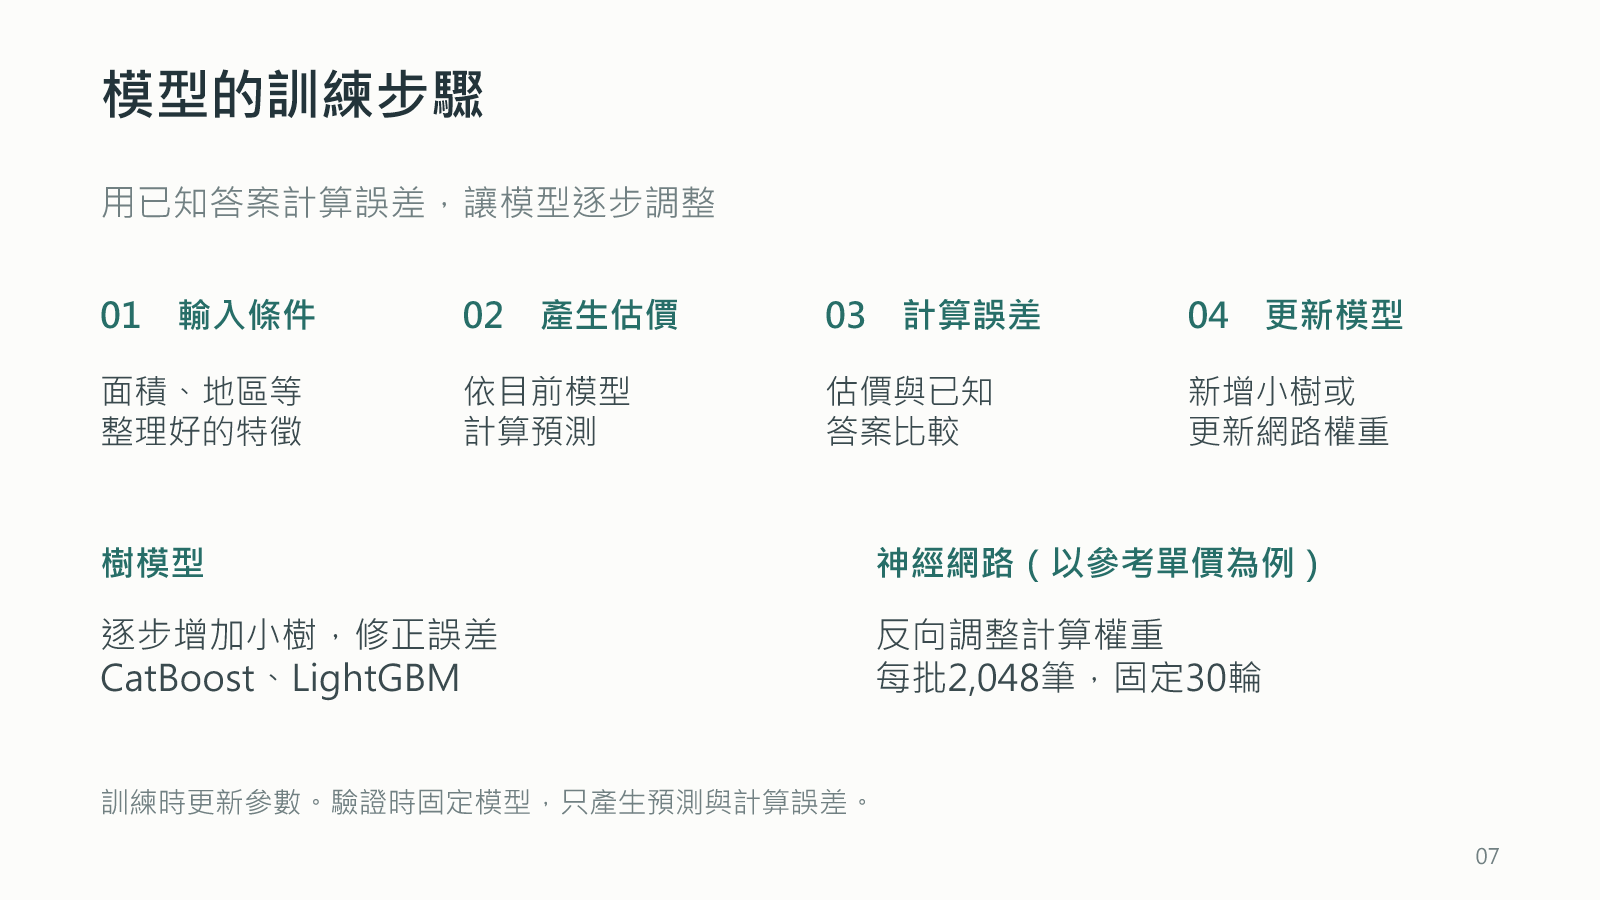
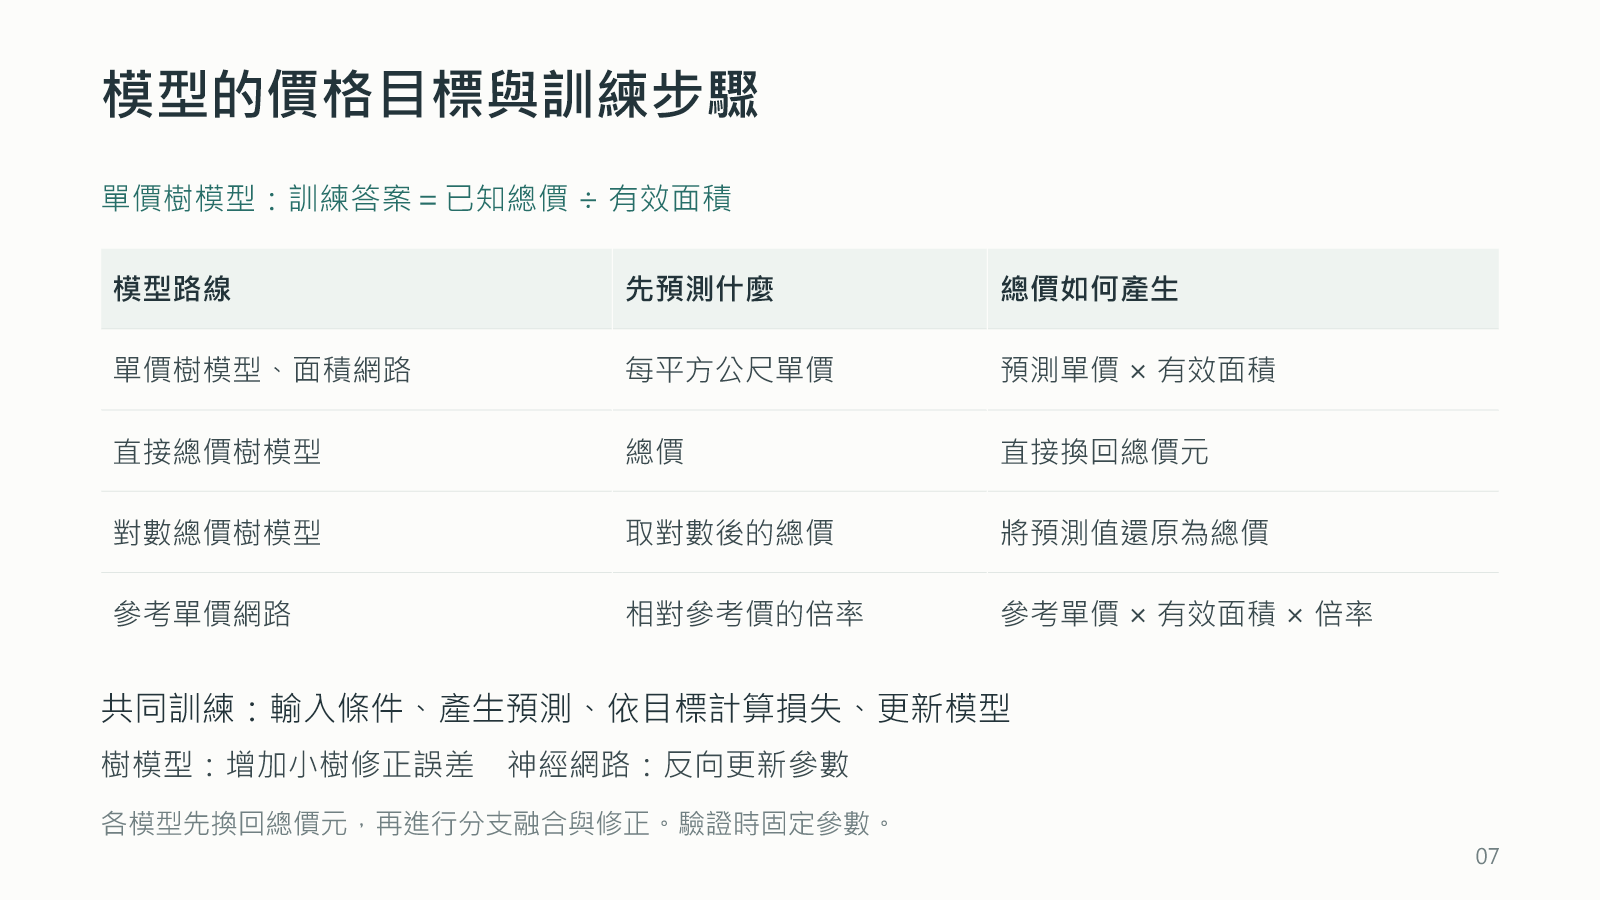
Clarify model price targets and total-price conversion on slide 7

diff --git a/teaching/final_presentation/完整口語講稿.md b/teaching/final_presentation/完整口語講稿.md
@@ -2,32 +2,9 @@
 
 姓名：廖子頤　學號：315581048
 
-共16頁，全部為主講，無附錄。主講 4,075 純漢字，按275字／分估約 14:49。250–300字／分估 13:35 至 16:18。這是文字配速估算，尚未本人計時；不依賴問答補時。
-
-講法以實際製作步驟與設計理由為主。每頁「主講」可口述，補充理由及來源供理解查閱，不重複朗讀。
-
-| 頁 | 主題 | 估計時間（275字／分） |
-| --- | --- | --- |
-| 01 | 台灣房屋銷售價格預測挑戰賽 | 0:35 |
-| 02 | 房屋條件與價格答案 | 0:42 |
-| 03 | 估價誤差與 MAE | 0:44 |
-| 04 | 原始文字的處理步驟 | 1:10 |
-| 05 | 模型輸入欄位的選擇 | 1:14 |
-| 06 | 用較早交易預測下一年 | 0:54 |
-| 07 | 模型的訓練步驟 | 1:05 |
-| 08 | 面積與總價誤差 | 0:52 |
-| 09 | 日期權重的影響 | 0:46 |
-| 10 | 參考單價與分組先驗 | 1:02 |
-| 11 | 用後一年交易檢查訓練過程 | 1:19 |
-| 12 | 六模型組成三條分支 | 0:48 |
-| 13 | 成交參考與空間修正 | 0:48 |
-| 14 | 逐筆取三路中位數 | 0:50 |
-| 15 | 跨年度檢查同一套流程 | 0:52 |
-| 16 | 驗證之後的分組檢查 | 1:10 |
+16頁，全為主講，無附錄。主講script共4,268純漢字（不含標題、數字、英文、標點、補充理由與問答）；275字／分約15:31，250–300字／分約14.23–17.07分鐘。尚未本人排練計時，翻頁與停頓可能增加時間。
 
 ## 01　台灣房屋銷售價格預測挑戰賽
-
-### 主講
 
 大家好，我是廖子頤，今天介紹台灣房屋銷售價格預測挑戰賽。我拿到的是一張交易資料表，每列代表一筆交易，裡面有面積、地點、樓層和交易日期。部分資料附有成交總價，另一部分需要我們預測。
 
@@ -37,9 +14,11 @@
 
 先定義一筆交易的輸入與輸出，讓零基礎聽眾知道整份報告要解決的問題。
 
-## 02　房屋條件與價格答案
+### 資料依據
 
-### 主講
+- reports/v25_method_and_code_20261010.md
+
+## 02　房屋條件與價格答案
 
 第一步，我先區分條件和答案。地點、面積、樓層、建物類型與交易日期，是預測時可用的條件，叫作特徵。已知成交總價是答案，也叫標籤。要預測連續金額，這個任務叫回歸。
 
@@ -51,9 +30,11 @@
 
 先教會訓練和推論的差異，避免將模型當成上網搜尋價格或背出固定答案。
 
-## 03　估價誤差與 MAE
+### 資料依據
 
-### 主講
+- reports/v25_method_and_code_20261010.md
+
+## 03　估價誤差與 MAE
 
 訓練之前，我先決定怎麼檢查預測。比賽使用平均絕對誤差，英文縮寫是ＭＡＥ，單位是新臺幣元。每筆預測減掉真實總價，取絕對值，再把整批差距平均。
 
@@ -65,9 +46,11 @@
 
 完整算一次比只展示公式容易理解，也能預防把MAE當成百分比或有正負號的平均誤差。
 
-## 04　原始文字的處理步驟
+### 資料依據
 
-### 主講
+- reports/v25_method_and_code_20261010.md
+
+## 04　原始文字的處理步驟
 
 訓練資料先排除混入的英文表頭與完全重複紀錄，待預測資料的列仍完整保留。接著用程式規則，逐欄解析文字。
 
@@ -81,9 +64,15 @@
 
 逐欄說明解析規則與產生欄位，讓聽眾能解釋實際如何整理原始文字，而不是只背轉換後數字。
 
-## 05　模型輸入欄位的選擇
+### 資料依據
 
-### 主講
+- reports/v25_method_and_code_20261010.md
+- src/prepare_data.py
+- src/model_common.py
+- src/house_features.py
+- src/round3_features.py
+
+## 05　模型輸入欄位的選擇
 
 欄位整理好後，我選擇模型可用的線索。面積、樓層、地點和日期描述交易條件。成交總價另存成答案，不能混進條件，否則模型會直接看到答案。編號只保留來對齊輸出，不交給模型估價。
 
@@ -97,9 +86,17 @@
 
 以欄位用途與可取得時間說明選擇依據，區分條件、答案和輸出識別碼。
 
-## 06　用較早交易預測下一年
+### 資料依據
 
-### 主講
+- reports/v25_method_and_code_20261010.md
+- src/house_features.py
+- src/round6_geo.py
+- data_external/geography/ATTRIBUTION.md
+- src/round47_nn_encode.py
+- src/round54_numeric_encode.py
+- src/train_lightgbm.py
+
+## 06　用較早交易預測下一年
 
 我把有答案的交易依日期切開，較早的用來學習，後一年保留檢查，叫作時間驗證。後一年雖然有真價，訓練時先不讓模型看到，預測完成後才評分。
 
@@ -113,25 +110,39 @@
 
 先用新舊題目教過擬合，再說明時間隔離需涵蓋所有fit狀態，並保留反覆選型限制。
 
-## 07　模型的訓練步驟
+### 資料依據
 
-### 主講
+- reports/v25_method_and_code_20261010.md
+- outputs/round107/results.json
+- reports/round107_108_report.md
 
-訓練時，我把條件、價格目標和必要權重交給模型。共同流程是輸入條件、產生估價、和答案計算誤差，再由演算法調整模型。
+## 07　模型的價格目標與訓練步驟
 
-樹模型使用ＣａｔＢｏｏｓｔ和ＬｉｇｈｔＧＢＭ。演算法從資料找出條件與門檻，逐步增加小樹，修正預測誤差。門檻不是我人工指定房價。類別處理也不同：前者使用原生類別處理，後者使用從訓練資料建立的代碼。
+這頁先說清楚：有些模型先估單價，再乘回面積；也有模型直接估總價，不能把所有預測都再乘一次面積。樹模型和神經網路是學習方法，單價或總價則是要學的答案，這是兩個不同的選擇。
 
-神經網路把數值和類別表示送入多層計算，利用誤差反向調整權重。以參考單價網路為例，每輪先打亂資料，每批取兩千零四十八筆，先估價，再計算日期加權平滑損失，用最佳化器更新參數，固定重複三十輪。類別的數字表示也一起學習。一批更新一次參數，一輪包含多批。網路參數也叫權重，但和每筆交易的訓練權重用途不同。
+單價樹模型訓練時，我把已知成交總價除以有效面積，得到每平方公尺單價，作為學習答案。預測新交易時，只輸入房屋條件，由模型估出單價，再乘已知面積。例如估每平方公尺二十萬元、面積五十平方公尺，總價就是一千萬元。未知交易的總價沒有拿來計算輸入。
 
-驗證時固定模型，只預測與計算誤差，不更新參數。兩類學法不同，後面組合使用，但是否有幫助仍要檢查。
+直接總價模型學成交總價。對數模型先把總價取對數，壓縮金額尺度，預測後再做反向轉換。參考單價網路則先用訓練交易建立參考價，再預測調整倍率。參考單價乘面積、再乘倍率，才得到總價。倍率是一點一，就代表在參考總價上乘一點一。倍率是調整參考總價的方法，不是另外一份價格答案。
+
+共同訓練流程是輸入條件、產生預測、依學習目標計算損失，再更新模型。單價樹模型比較單價誤差，搭配面積等權重；面積網路與參考單價網路則換回總價計算損失。對數模型比較的是對數尺度誤差，不能說每個模型都直接用總價ＭＡＥ訓練。
+
+樹模型逐步增加小樹修正誤差；神經網路依損失反向更新參數。參考單價網路每批兩千零四十八筆，固定三十輪，一批更新一次，一輪包含多批。驗證時固定參數，不繼續學習。所有輸出都先換回總價元，才進行融合、修正與總價ＭＡＥ評分。
 
 ### 補充理由
 
-把模型名稱連到可講述的訓練動作，區分樹的逐步修正與網路的參數更新。
+區分學習演算法與價格表示，明示單價答案的建立及預測後乘回面積；補上參考網路預測正倍率、對數反向轉換。各模型原生訓練損失不同，融合與最終評分才統一為總價元，避免重複乘面積或誤稱所有模型直接最小化總價MAE。
+
+### 資料依據
+
+- reports/v25_method_and_code_20261010.md
+- src/round19_unit_geo.py
+- src/train_lightgbm.py
+- src/round48_nn_train.py
+- src/round47_nn_train.py
+- src/round107_weighted_smooth_train.py
+- src/round12_log_geo.py
 
 ## 08　面積與總價誤差
-
-### 主講
 
 價格目標有三種。第一種直接學成交總價。第二種把總價除以有效面積，學每平方公尺單價，預測後乘回面積。第三種將總價取對數，壓縮大金額尺度，提供另一種學習角度。
 
@@ -143,9 +154,14 @@
 
 用同單價誤差導致不同總價誤差，解釋面積權重的必要性，並區分log原生loss與最終評估。
 
-## 09　日期權重的影響
+### 資料依據
 
-### 主講
+- reports/v25_method_and_code_20261010.md
+- src/round19_unit_geo.py
+- src/round12_log_geo.py
+- src/round79_recency_unit.py
+
+## 09　日期權重的影響
 
 特定模型也加入日期權重。距離當期最新日期越遠，相對權重越小，因為近期成交可能更接近待預測期間的市場。
 
@@ -157,9 +173,13 @@
 
 說清楚權重作用於訓練誤差，不是修改房價，並呈現半衰期示意與實際正規化差別。
 
-## 10　參考單價與分組先驗
+### 資料依據
 
-### 主講
+- reports/v25_method_and_code_20261010.md
+- src/round60_recency_price_prior.py
+- src/round79_recency_unit.py
+
+## 10　參考單價與分組先驗
 
 參考單價網路先建立一張參考表。從當期訓練成交依地區、交易類型和建物類型整理單價，資料不足就逐層放寬分組，最後回到整體參考。網路再從房屋條件學習調整倍率，用參考單價乘面積和倍率，產生總價。
 
@@ -173,9 +193,15 @@
 
 用答案混入參考基準的具體風險解釋OOF，明確保留按建案而非時間分組的限制。
 
-## 11　用後一年交易檢查訓練過程
+### 資料依據
 
-### 主講
+- reports/v25_method_and_code_20261010.md
+- src/round60_recency_price_prior.py
+- src/round63_recency_weighted_prior_train.py
+- src/round107_weighted_smooth_train.py
+- outputs/round107/final/model/training.json
+
+## 11　用後一年交易檢查訓練過程
 
 較早的三十二萬一千五百五十筆交易用來訓練，日期截至二〇二三年八月十日。後面的十三萬三千六百九十七筆，是二〇二三年八月十一日至二〇二四年八月十日成交，保留驗證。兩批都從原本有答案的訓練資料切出，不是課程驗證檔或比賽測試檔。
 
@@ -189,9 +215,13 @@
 
 用明確日期和資料角色定義時間驗證，區分固定設定診斷與完整融合，避免曲線選型。
 
-## 12　六模型組成三條分支
+### 資料依據
 
-### 主講
+- reports/v25_training_curve_plan_20261010.md
+- outputs/v25_training_curve_20261010/curve.json
+- src/v25_training_curve_20261010.py
+
+## 12　六模型組成三條分支
 
 各模型先統一輸出總價元，再組成三條分支。第一路以單價ＣａｔＢｏｏｓｔ為主，第二路平均面積網路與參考單價網路，第三路平均直接總價與對數總價模型。
 
@@ -205,9 +235,12 @@
 
 分開解釋六模型和三分支，以同一間房的總價示例算一次75／25，再銜接後續修正。例子只說明運算，沒有證明這組比例最佳。
 
-## 13　成交參考與空間修正
+### 資料依據
 
-### 主講
+- reports/v25_method_and_code_20261010.md
+- src/round107_final_candidate.py
+
+## 13　成交參考與空間修正
 
 三路初估接著各自做成交參考與空間修正，補充同建案或附近街區的歷史差異。
 
@@ -221,9 +254,13 @@
 
 補足初估、成交參考和空間修正的資料流，明說每支各自處理、修正後仍是三個價格。保留當期訓練來源、支持條件及道路精度限制。
 
-## 14　逐筆取三路中位數
+### 資料依據
 
-### 主講
+- reports/v25_method_and_code_20261010.md
+- src/round2_neighborhood.py
+- src/round8_spatial_reference.py
+
+## 14　逐筆取三路中位數
 
 我對每筆交易取三路中位數：把修正後總價由小到大排序，取中間那個。教學例子中，一千萬、一千一百萬和一千六百萬，得到一千一百萬元。
 
@@ -237,9 +274,12 @@
 
 用排序手算建立median直覺，保留它可能阻擋正確極端與無法消除共同偏差的限制。
 
-## 15　跨年度檢查同一套流程
+### 資料依據
 
-### 主講
+- reports/v25_method_and_code_20261010.md
+- src/round107_final_candidate.py
+
+## 15　跨年度檢查同一套流程
 
 完成流程後，我更換時間起點，重建當期模型與參考，再計算後一年的總價ＭＡＥ。表格每列是不同驗證期間，評分的是三分支修正後取中位數的完整方法。
 
@@ -251,9 +291,13 @@
 
 呈現更換切點後重建與評分的檢查流程，保留不同集合與保存基準的比較限制。
 
-## 16　驗證之後的分組檢查
+### 資料依據
 
-### 主講
+- reports/v25_method_and_code_20261010.md
+- outputs/round107/results.json
+- reports/round107_108_report.md
+
+## 16　驗證之後的分組檢查
 
 最後將驗證交易拆組檢查。我用當期訓練資料的城市、行政區與建案名稱，建立見過的建案清單，再分成既有建案、新建案和建案缺失，各組計算ＭＡＥ。也檢查城市、月份和價格帶，避免平均掩蓋某群問題。價格帶只在有真價的離線資料分析。
 
@@ -266,3 +310,12 @@
 ### 補充理由
 
 說明如何建立群別及逐群評分，完整保留不利對照、重抽樣界線與未知Private。
+
+### 資料依據
+
+- reports/v25_method_and_code_20261010.md
+- outputs/kaggle_feedback/public_v25_user_report_20261010.json
+- src/round3_evaluate.py
+- src/round100_temporal_prior_evaluate_v2.py
+- reports/round107_108_report.md
+- outputs/round107/results.json

diff --git a/HANDOFF.md b/HANDOFF.md
@@ -1,9 +1,9 @@
 # 最終交付交接
 
-入口見[README](README.md)。正式報告12頁，原檔保持。製作流程簡報16頁，全為主講、無附錄；6原生表、3原生圖及1張PNG插圖。講稿4,075純漢字，275字／分估14.82分鐘，尚未本人計時。改為製作流程說明：文字處理、欄位選擇、模型訓練與分組檢查以步驟呈現；曲線提前到模型學習之後。四個時間窗口的結果均保留，只刪除表下指定說明句，相關限制留在講稿。已移除原Public、最終訓練、結論及三頁附錄，不另補頁。封面說明句維持刪除，第二頁房屋插圖保持。現行入口teaching/final_presentation，舊檔本機與Git歷史保留。
+入口見[README](README.md)。正式報告原12頁保持。製作流程簡報16頁，全為主講、無附錄；講稿4,268純漢字，275字／分估15.52分鐘，尚未本人計時。第7頁補清各模型先預測什麼：總價、單價、對數總價或相對參考價的倍率。單價樹模型以單價為答案；面積網路雖輸出單價，仍乘面積後比較總價。各模型依原生學習目標計算損失，統一換回總價元後進行融合與最終總價MAE評分。已還原總價不再重複乘面積。只改第7頁／備忘稿及必要文件，其餘15頁與notes、三個圖表及Excel原bytes保持。封面刪除、第二頁房屋插圖、四窗口數據及指定底句刪除保持。現行入口teaching/final_presentation，舊檔本機與Git歷史保留。
 
-Public 1,995,836.2136元為使用者回報，Private未知。診斷曲線是另行固定30輪的單一NN，未依最低點挑輪；不是完整融合或原提交軌跡。Private未知，反覆使用驗證窗口與分群退步等限制保留於講稿及原始證據。乾淨環境全六模型重訓／推論尚未驗證。第11頁曲線的60點不變，原三個圖表及Excel按數值內容核對，不宣稱重新打包檔bytes相同。
+Public 1,995,836.2136元為使用者回報，Private未知。第11頁仍為另行固定30輪的單一NN診斷，不是完整融合或原提交軌跡，未依最低點挑輪。Private未知，歷史不利證據及乾淨環境全六模型重訓／推論未驗證的限制保持。最終只新訓練參考單價NN，其餘五個沿用保存預測的實際範圍未改。
 
-此批沒有修改Word、模型或提交CSV。152個必要科學來源及證據保持。簡報source重建16頁畫面一致，只屬文件重建；未驗證原生PowerPoint編輯或新電腦安裝。
+此批未改Word、模型或提交CSV。152個必要科學來源及證據保持。簡報source重建16頁畫面一致，只屬文件重建；未驗證原生PowerPoint編輯或新電腦安裝。
 
 使用者正在零基礎學習，已講過不表示熟練；接續時用短段、算例與逐步確認。

diff --git a/teaching/final_presentation/README.md b/teaching/final_presentation/README.md
@@ -1,10 +1,10 @@
 # 台灣房屋銷售價格預測挑戰賽｜製作流程簡報與講稿
 
-- [可編輯簡報](台灣房屋銷售價格預測挑戰賽_上台簡報.pptx)：16頁，全為主講，無附錄。
-- [完整口語講稿](完整口語講稿.md)：4,075純漢字，275字／分估14.82分鐘；尚未本人計時。
-- [封面預覽](previews/slide-01.png)、[第二頁預覽](previews/slide-02.png)。
+- [可編輯簡報](台灣房屋銷售價格預測挑戰賽_上台簡報.pptx)：16頁，全為主講、無附錄。
+- [完整口語講稿](完整口語講稿.md)：4,268純漢字，275字／分估15.52分鐘，尚未本人計時。
+- [第7頁預覽](previews/slide-07.png)、[封面預覽](previews/slide-01.png)。
 - [文件重建來源](source/README.md)、[原始60點曲線](../../evidence/outputs/v25_training_curve_20261010/curve.json)。
 
-改為製作流程說明：文字處理、欄位選擇、模型訓練與分組檢查以步驟呈現；曲線提前到模型學習之後。四個時間窗口的結果均保留，只刪除表下指定說明句，相關限制留在講稿。已移除原Public、最終訓練、結論及三頁附錄，不另補頁。現6原生表、3原生圖及1張PNG插圖。封面指定說明句維持刪除，第二頁房屋插圖保持。三個圖表與Excel工作簿按數值內容核對，重新打包的檔案不宣稱bytes相同。
+第7頁補清各模型先預測什麼：總價、單價、對數總價或相對參考價的倍率。單價樹模型以單價為答案；面積網路雖輸出單價，仍乘面積後比較總價。各模型依原生學習目標計算損失，統一換回總價元後進行融合與最終總價MAE評分。已還原總價不再重複乘面積。只改第7頁與備忘稿，其餘15頁畫面／備忘稿及三個圖表／Excel原bytes保持；不刪頁、不改排序。封面刪除、第二頁房屋插圖及四窗口數據保持。
 
-第11頁曲線：診斷曲線是另行固定30輪的單一NN，未依最低點挑輪；不是完整融合或原提交軌跡。Private未知，反覆使用驗證窗口與分群退步等限制保留於講稿及原始證據。乾淨環境全六模型重訓／推論尚未驗證。本次同bundled runtime完整source重建後16頁像素與交付檔一致；未驗證原生PowerPoint編輯或新電腦安裝。Word、模型與提交CSV不變。
+第11頁仍為另行固定30輪的單一NN診斷，不是完整融合或原提交軌跡，未依最低點挑輪。Private未知，歷史不利證據及乾淨環境全六模型重訓／推論未驗證的限制保持。本次同bundled runtime完整source重建後16頁像素與交付檔一致；未驗證原生PowerPoint編輯或新電腦安裝。Word、模型與提交CSV不變。

diff --git a/teaching/final_presentation/source/README.md b/teaching/final_presentation/source/README.md
@@ -1,6 +1,6 @@
 # 簡報重建來源
 
-本資料夾對應16頁製作流程簡報，全部為主講、無附錄。完整口語講稿 4,075 純漢字，275字／分估約14:49，250–300字／分估13:35至16:18，未本人計時。
+本資料夾對應16頁製作流程簡報，全部為主講、無附錄。完整口語講稿 4,268 純漢字，275字／分估約15:31，250–300字／分估14.23至17.07分鐘，未本人計時。
 
 以 `build_presentation.mjs` 讀取同目錄 `content.json`、`training_curve.json` 及 `assets/house_illustration.png`，產生可編輯候選；再以 `finalize_presentation.mjs` 完成套件檢查與逐頁渲染。需可用的 Node.js、@oai/artifact-tool、Python 及 Presentations 技能工具，環境路徑可由檔內環境變數調整。此來源重建簡報，不會訓練房價模型。
 
@@ -12,3 +12,5 @@ node ./finalize_presentation.mjs C:/path/to/new-build r1
 輸出目錄須使用新路徑。圖表維持原生可編輯資料，finalizer補入對應Excel資料表。曲線原始60個MAE值沿用保存資料，含單一網路診斷限制，沒有用圖中最低點挑選輪數。房屋插圖為既有生成示意圖，來源記錄在 assets/house_illustration.json。
 
 實際完成的重建與視覺核對以本次交付收據為準。不同Office版本可能略有重排，未宣稱原生PowerPoint或全新電腦安裝已測試。模型／CSV未改，Private未知。
+
+本次僅重寫第7頁的價格目標對照與訓練步驟、備忘稿及講稿。原生表頁為3、4、5、6、7、12、15，共7張；3圖表及原始60點曲線保持。講稿4,268純漢字，275字／分估15.52分鐘，尚未本人計時。單價模型乘回有效面積；直接總價與已還原總價不得重複乘面積。各模型原生loss不同，融合與最終評分統一總價元。
